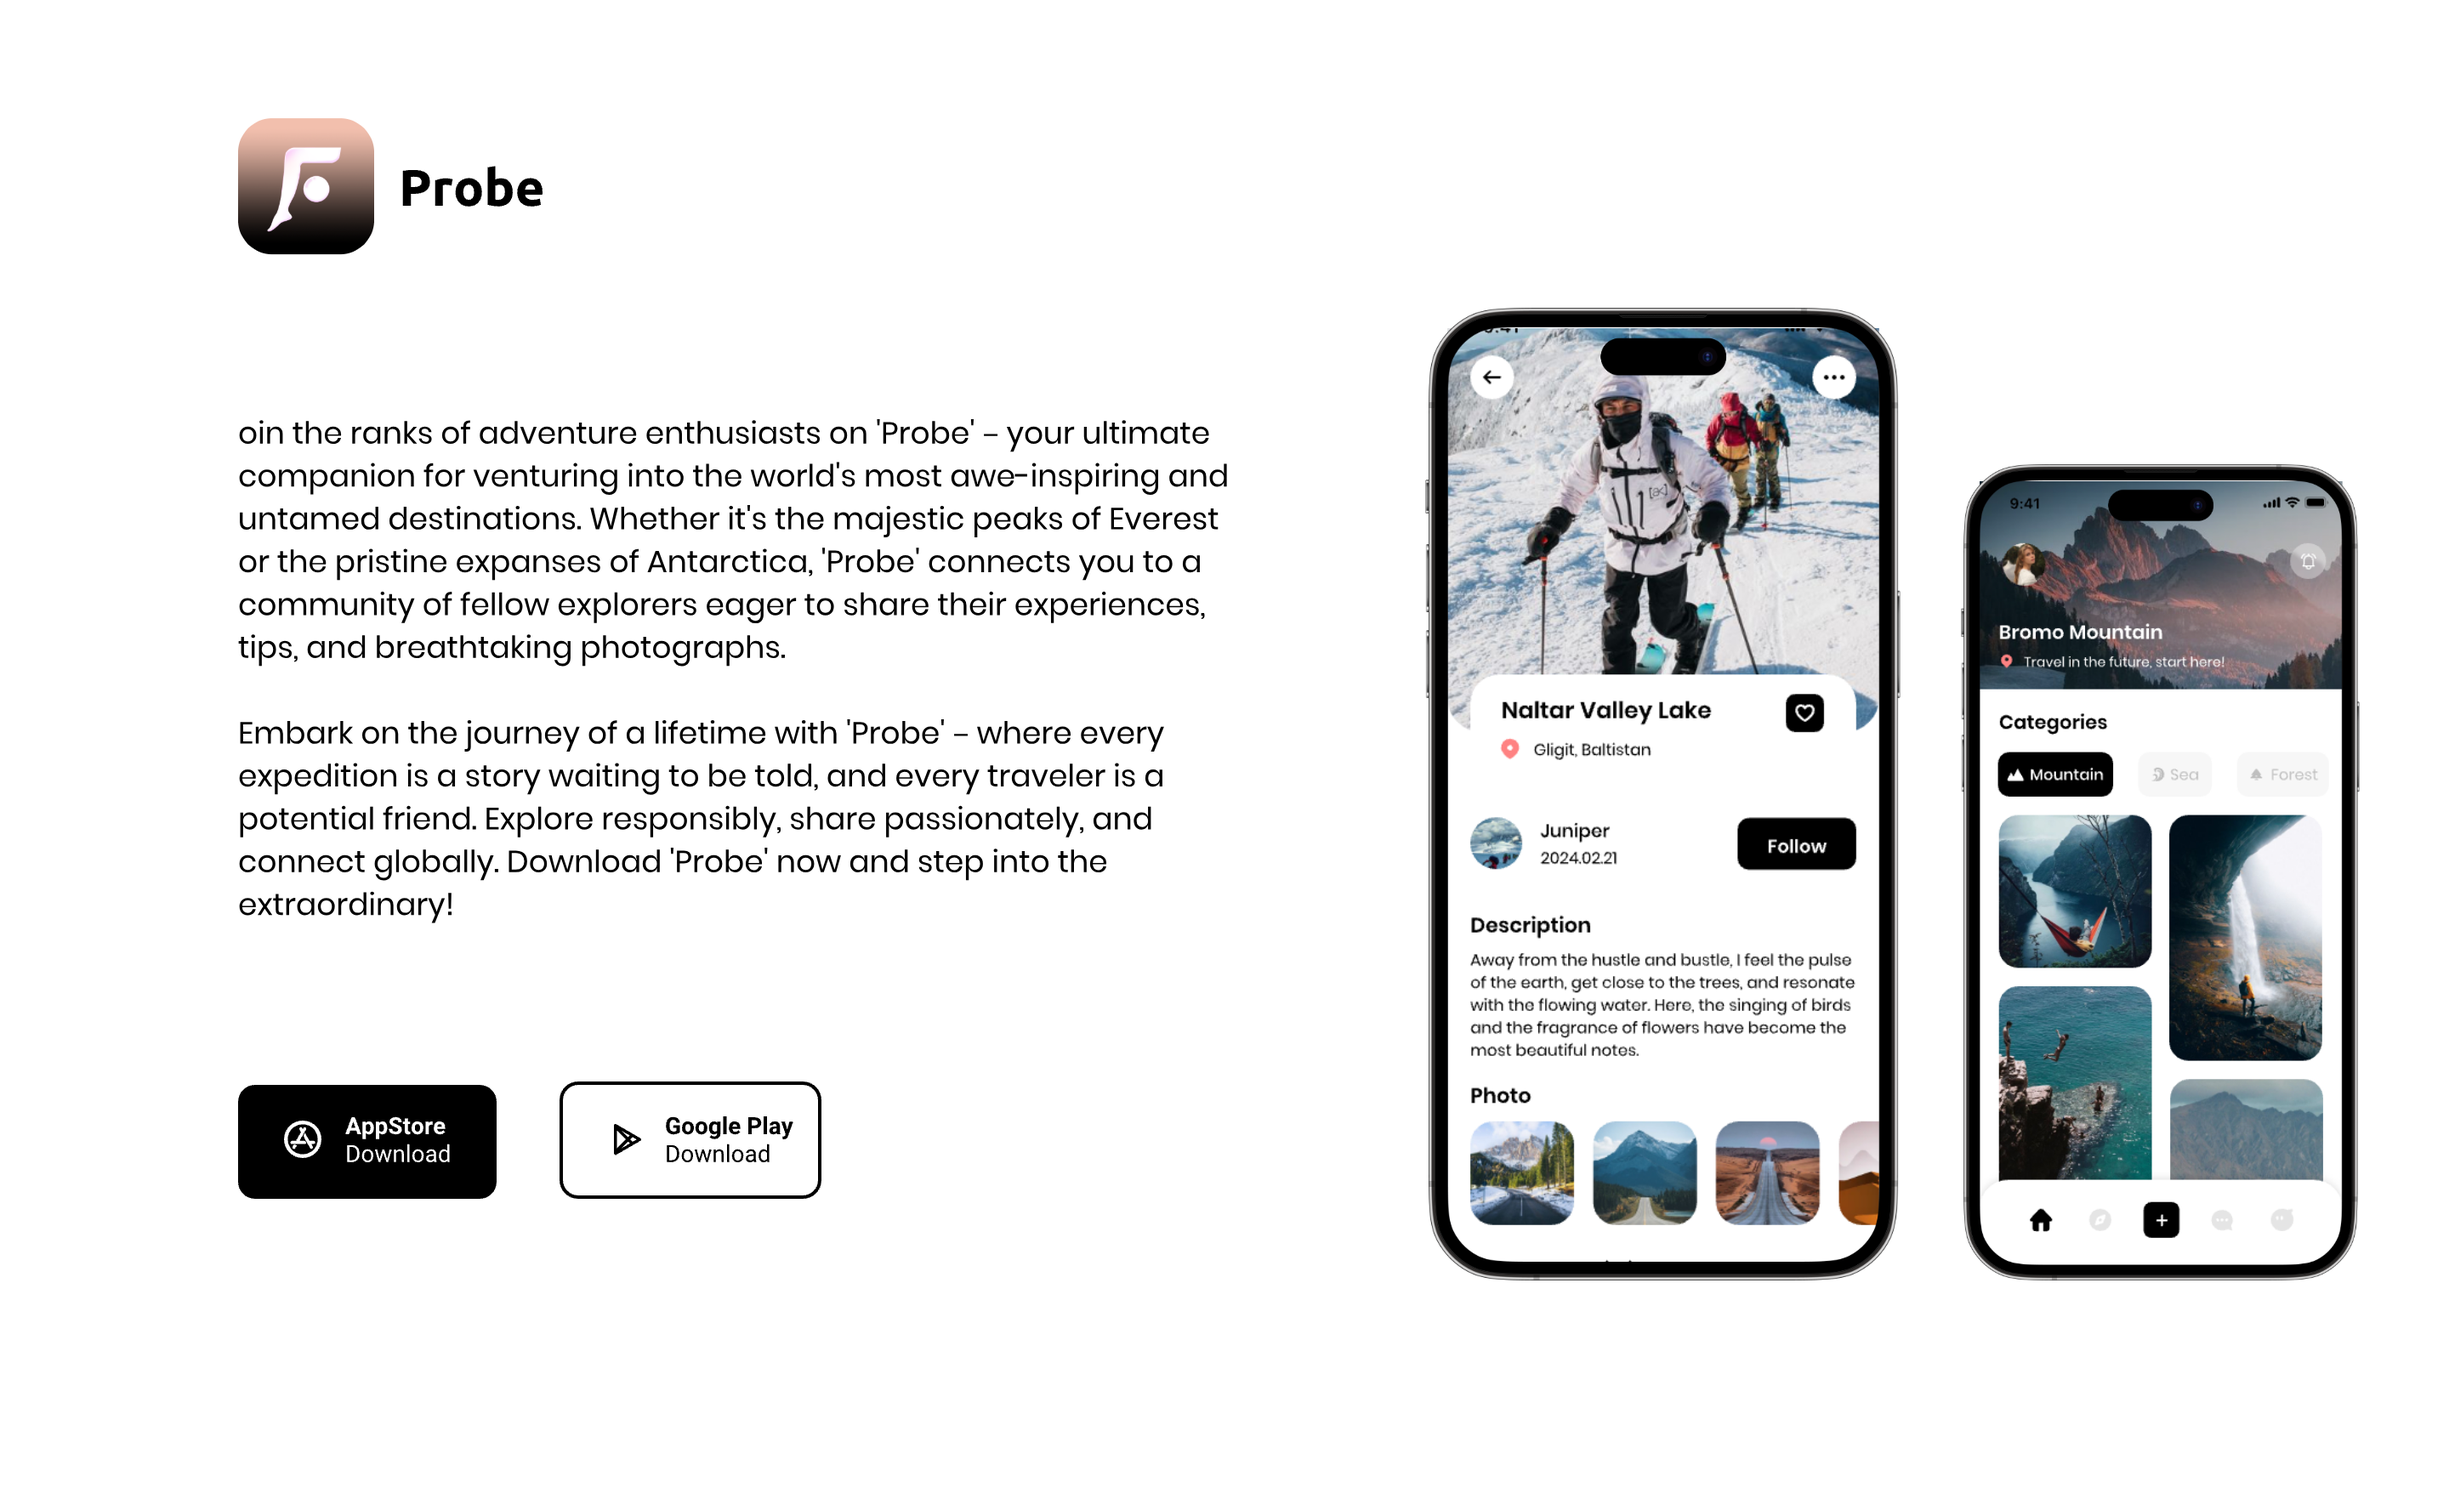
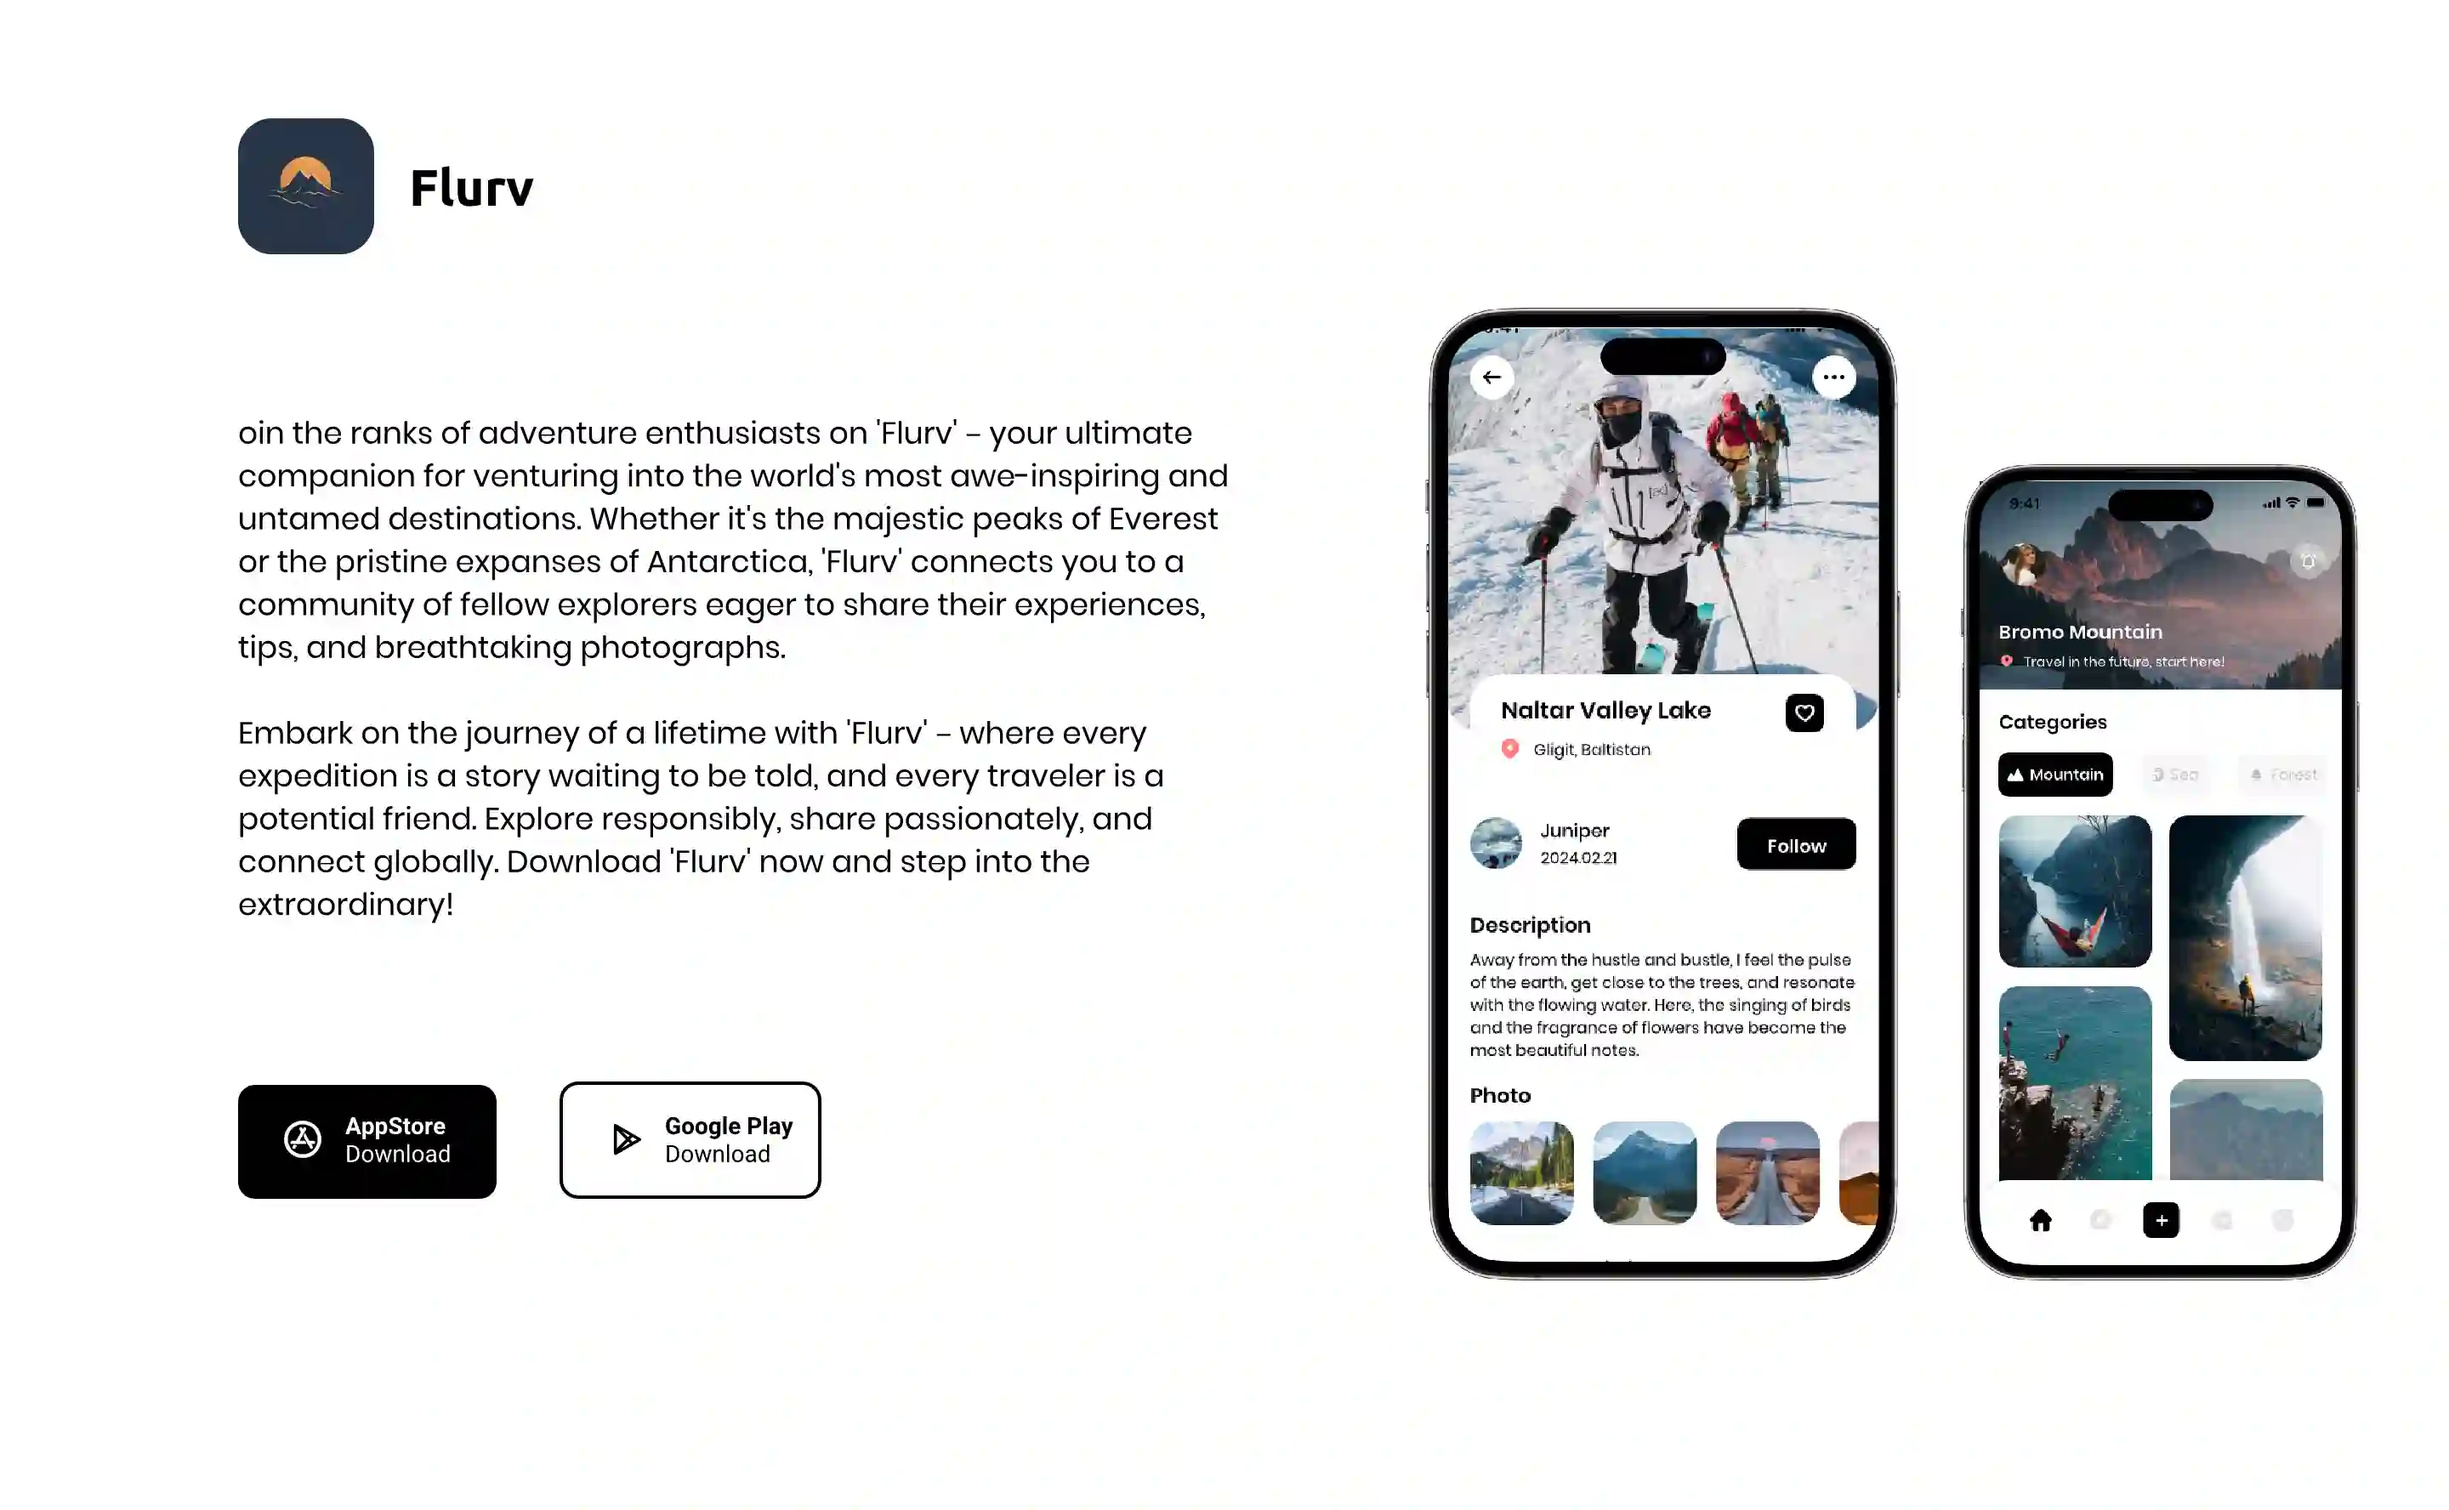
修改4.3

diff --git a/src/pages/index.vue b/src/pages/index.vue
@@ -9,13 +9,13 @@ defineOptions({
     <img h-full w-full src="../assets/bg.webp" alt="" />
 
     <div class="email" absolute bottom-10 w-full flex justify-center>
-      <div rd-2 p-2 p-x-5 text-7 class="probe-yx">kunkacinnamon872@gmail.com</div>
+      <div rd-2 p-2 p-x-5 text-7 class="Flurv-yx">kunkacinnamon872@gmail.com</div>
     </div>
   </div>
 </template>
 
 <style scoped>
-.probe-yx {
+.Flurv-yx {
   color: #000;
   background-color: #fff;
   border: 1px solid #000;

diff --git a/index.html b/index.html
@@ -4,7 +4,7 @@
   <meta charset="UTF-8">
   <meta name="viewport" content="width=device-width, initial-scale=1.0">
   <link rel="icon" href="/favicon.svg" type="image/svg+xml">
-  <title>Probe</title>
+  <title>Flurv</title>
   <meta name="description" content="Opinionated Vite Starter Template">
 </head>
 <body class="font-sans">

diff --git a/src/pages/privacy.vue b/src/pages/privacy.vue
@@ -2,7 +2,7 @@
 defineOptions({
   name: 'IndexPage',
 })
-const appName = 'Probe'
+const appName = 'Flurv'
 </script>
 
 <template>

diff --git a/src/pages/users.vue b/src/pages/users.vue
@@ -2,7 +2,7 @@
 defineOptions({
   name: 'IndexPage',
 })
-const appName = 'Probe'
+const appName = 'Flurv'
 </script>
 
 <template>
